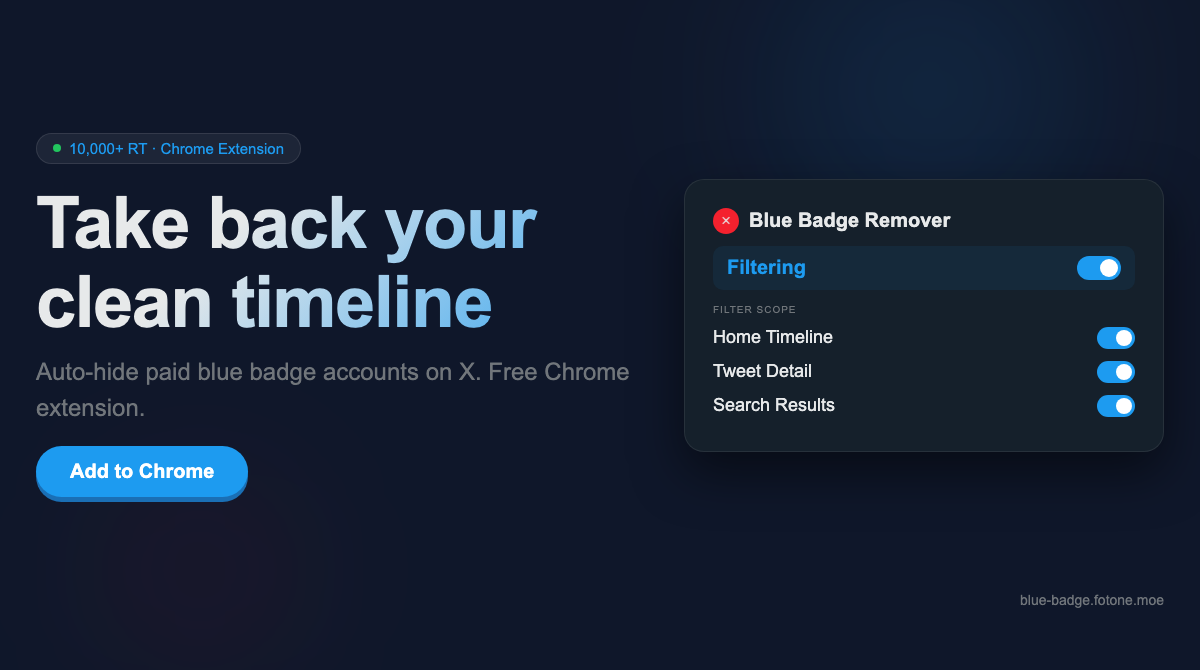
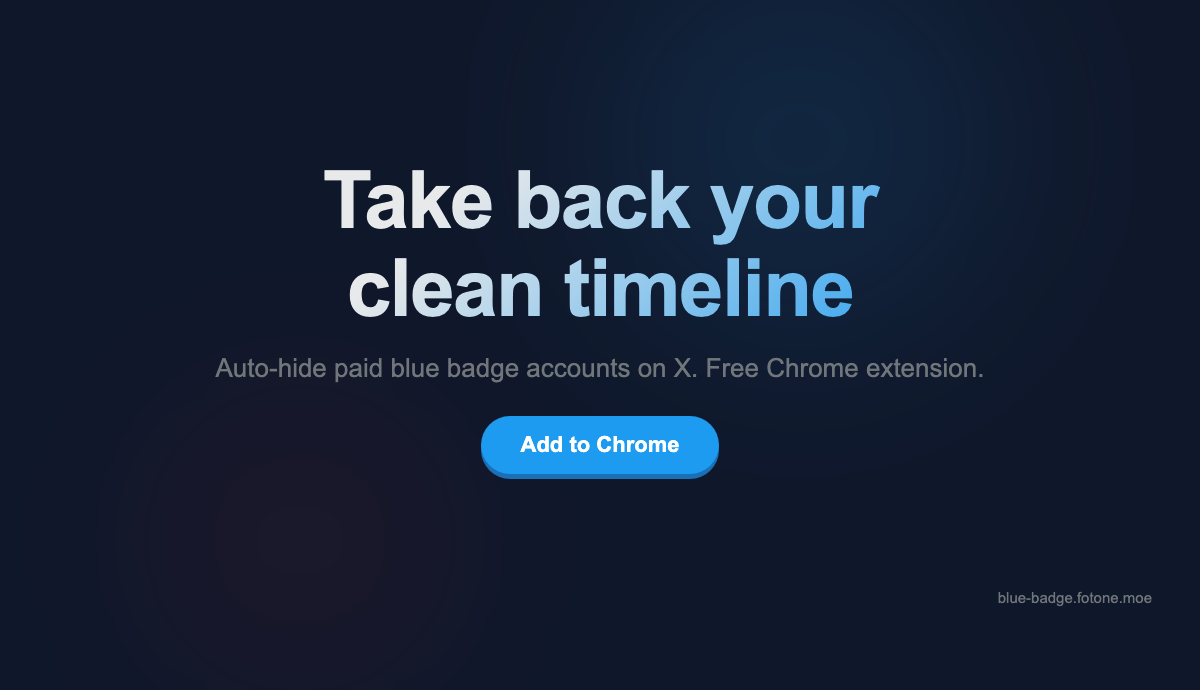
fix: feedback link, remove hero badge, simplify OG image
- Feedback URL: forms.gle/F1hyx1uo8yaFE3Tt6
- Remove "10,000+ RT" badge from hero section
- OG image: centered text only, no popup preview, no badge

diff --git a/src/sections/Hero.tsx b/src/sections/Hero.tsx
@@ -20,12 +20,6 @@ export function Hero() {
       <div className="relative z-10 mx-auto flex max-w-5xl flex-col items-center gap-12 lg:flex-row lg:gap-16">
         {/* Left: Content */}
         <div className="flex-1 text-center lg:text-left">
-          {/* Social proof badge */}
-          <div className="glass-card mb-6 inline-flex items-center gap-2 rounded-full px-4 py-1.5 text-sm text-accent-blue">
-            <span className="inline-block h-2 w-2 animate-pulse rounded-full bg-green-500" />
-            {t("hero.badge")}
-          </div>
-
           <h1 className="whitespace-pre-line text-gradient font-heading text-4xl font-bold leading-tight tracking-tight break-keep sm:text-5xl md:text-6xl">
             {t("hero.title")}
           </h1>

diff --git a/src/lib/constants.ts b/src/lib/constants.ts
@@ -8,4 +8,4 @@ export const AUTHOR_X_URL = "https://x.com/fotoner_p";
 export const AUTHOR_HANDLE = "@fotoner_p";
 
 export const FEEDBACK_URL =
-  "https://docs.google.com/forms/d/e/TODO/viewform";
+  "https://forms.gle/F1hyx1uo8yaFE3Tt6";
